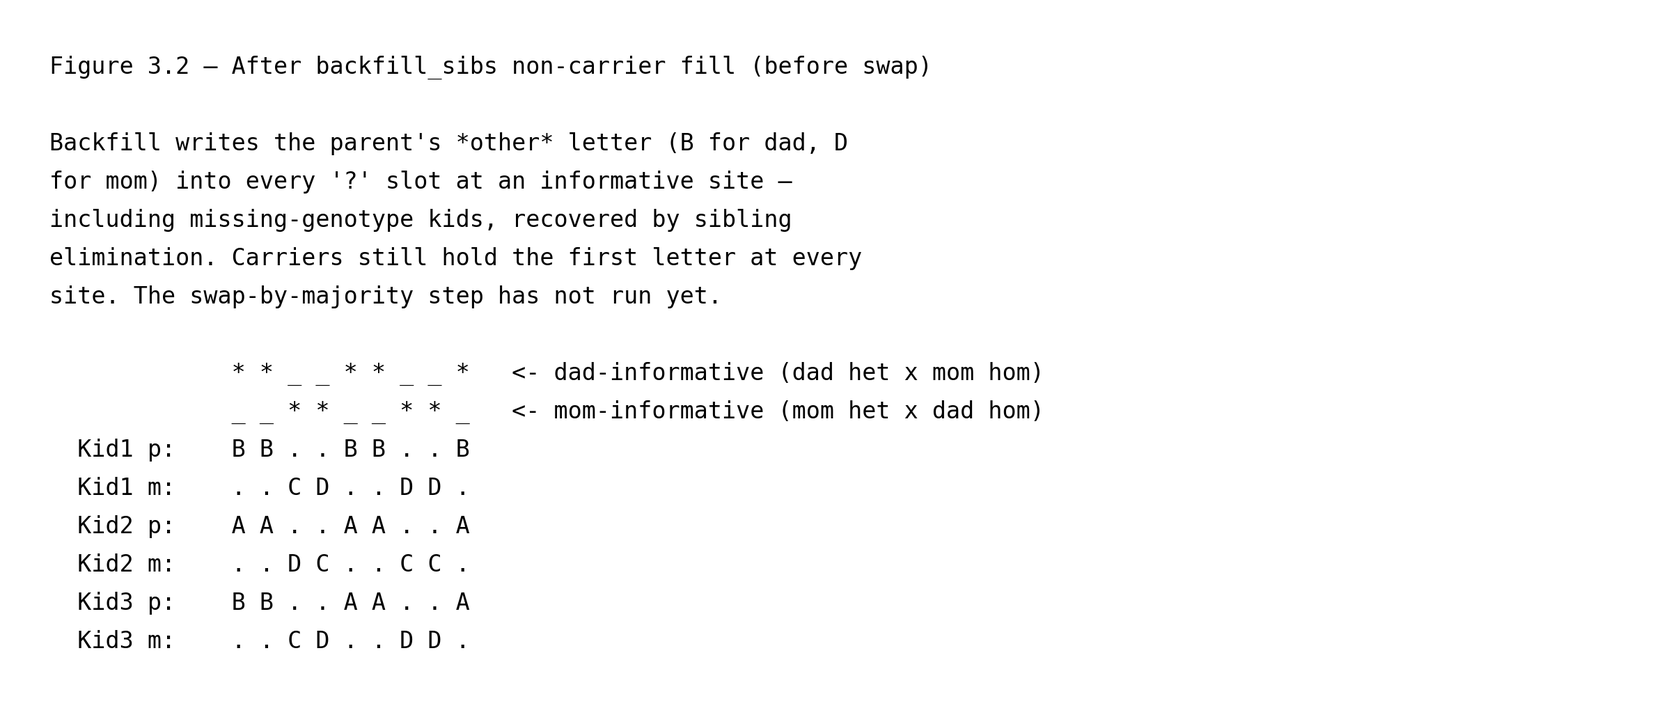
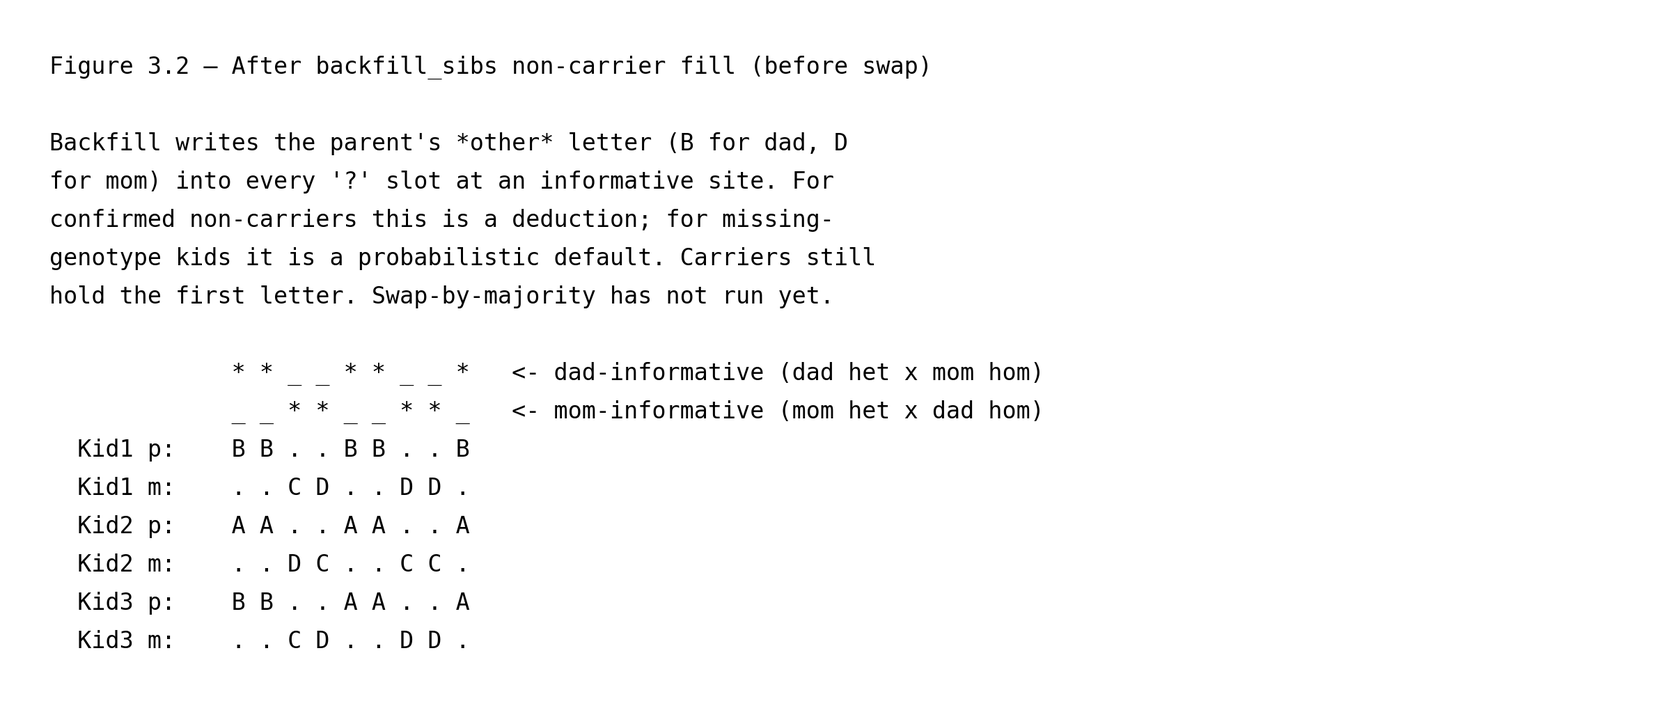
Scrub remaining sibling-elimination phrasing from fig 3.2 caption and Step 3c
The in-image caption for Figure 3.2 and the Step 3c one-child-guard
description still framed backfill as a deduction "by sibling
elimination". Rephrase both consistently with the Step 3/3a
corrections: figure caption now calls the missing-genotype fill a
probabilistic default, and Step 3c explains the one-child guard in
terms of no partition / no majority rather than a missing
"elimination signal".

Changed region(s): [[0.0312, 0.2462, 0.5312, 0.3692], [0.0312, 0.4, 0.4062, 0.4308], [0.4375, 0.4, 0.5, 0.4308]]

diff --git a/wiki/generate_wiki.py b/wiki/generate_wiki.py
@@ -614,10 +614,10 @@ def component_1_nuclear_family(out_dir: Path) -> None:
             pat_stage2, mat_stage2,
             [
                 "Backfill writes the parent's *other* letter (B for dad, D",
-                "for mom) into every '?' slot at an informative site —",
-                "including missing-genotype kids, recovered by sibling",
-                "elimination. Carriers still hold the first letter at every",
-                "site. The swap-by-majority step has not run yet.",
+                "for mom) into every '?' slot at an informative site. For",
+                "confirmed non-carriers this is a deduction; for missing-",
+                "genotype kids it is a probabilistic default. Carriers still",
+                "hold the first letter. Swap-by-majority has not run yet.",
             ],
         ),
         nf_dir / "fig3_2.png",
@@ -1030,8 +1030,9 @@ flips reconcile (§4).
 
 **Step 3c — skip families with one child** (the
 `children.len() > 1` guard at
-[`map_builder.rs:818`]({link(map_rs, 818)})), where there is no
-second sibling to provide the elimination signal.
+[`map_builder.rs:818`]({link(map_rs, 818)})). With a single child
+there is no sibling partition to exploit and the swap-by-majority
+step has no majority to measure.
 
 Because the depth-ordered walk in Step 1 always processes a parent
 before its children, [`get_iht_markers`]({link(map_rs, 274)}) (called

diff --git a/wiki/nuclear_family/nuclear_family.md b/wiki/nuclear_family/nuclear_family.md
@@ -6,10 +6,10 @@ pedigree: a two-generation nuclear family with two founders (dad and
 mom) and three children. It complements the full
 [`methods.md`](../methods.md) write-up by zooming in on the per-site
 mechanics and pinning each figure to the exact Rust code that implements
-it. All line numbers refer to commit `89f270f`. Each function link is
+it. All line numbers refer to commit `3274d53`. Each function link is
 followed by its call site in the driver — `main()` in
-[`map_builder.rs`](https://github.com/Platinum-Pedigree-Consortium/Platinum-Pedigree-Inheritance/blob/89f270f7a1b1a1ac5be881e12b9845dc3182e176/code/rust/src/bin/map_builder.rs#L989) for `gtg-ped-map`, and `main()` in
-[`gtg_concordance.rs`](https://github.com/Platinum-Pedigree-Consortium/Platinum-Pedigree-Inheritance/blob/89f270f7a1b1a1ac5be881e12b9845dc3182e176/code/rust/src/bin/gtg_concordance.rs#L315) for `gtg-concordance` —
+[`map_builder.rs`](https://github.com/Platinum-Pedigree-Consortium/Platinum-Pedigree-Inheritance/blob/3274d533128f1186b04df2785c7449bb87d22fc9/code/rust/src/bin/map_builder.rs#L989) for `gtg-ped-map`, and `main()` in
+[`gtg_concordance.rs`](https://github.com/Platinum-Pedigree-Consortium/Platinum-Pedigree-Inheritance/blob/3274d533128f1186b04df2785c7449bb87d22fc9/code/rust/src/bin/gtg_concordance.rs#L315) for `gtg-concordance` —
 so you can step through the driver source in parallel with this
 walkthrough.
 
@@ -75,25 +75,25 @@ In this simulation:
   sites 3 and 4, so Kid3 carries dad's `α` homolog on sites 0–3 and
   dad's `β` homolog on sites 4–8.
 
-At program startup, [`Iht::new`](https://github.com/Platinum-Pedigree-Consortium/Platinum-Pedigree-Inheritance/blob/89f270f7a1b1a1ac5be881e12b9845dc3182e176/code/rust/src/iht.rs#L172) (driver calls at
-[`map_builder.rs:1059`](https://github.com/Platinum-Pedigree-Consortium/Platinum-Pedigree-Inheritance/blob/89f270f7a1b1a1ac5be881e12b9845dc3182e176/code/rust/src/bin/map_builder.rs#L1059) for the master template
-and [`map_builder.rs:1111`](https://github.com/Platinum-Pedigree-Consortium/Platinum-Pedigree-Inheritance/blob/89f270f7a1b1a1ac5be881e12b9845dc3182e176/code/rust/src/bin/map_builder.rs#L1111) for each VCF site)
+At program startup, [`Iht::new`](https://github.com/Platinum-Pedigree-Consortium/Platinum-Pedigree-Inheritance/blob/3274d533128f1186b04df2785c7449bb87d22fc9/code/rust/src/iht.rs#L172) (driver calls at
+[`map_builder.rs:1059`](https://github.com/Platinum-Pedigree-Consortium/Platinum-Pedigree-Inheritance/blob/3274d533128f1186b04df2785c7449bb87d22fc9/code/rust/src/bin/map_builder.rs#L1059) for the master template
+and [`map_builder.rs:1111`](https://github.com/Platinum-Pedigree-Consortium/Platinum-Pedigree-Inheritance/blob/3274d533128f1186b04df2785c7449bb87d22fc9/code/rust/src/bin/map_builder.rs#L1111) for each VCF site)
 hands each founder a fresh pair of Latin letters — `(A,B)`, `(C,D)`,
 `(E,F)`, … — *without* associating any allele or any physical homolog
 with them. The letters are pure structural placeholders. The two
 `Iht::new` call sites play different roles: the first builds a
 **master template** that is never mutated — only its
-[`legend()`](https://github.com/Platinum-Pedigree-Consortium/Platinum-Pedigree-Inheritance/blob/89f270f7a1b1a1ac5be881e12b9845dc3182e176/code/rust/src/iht.rs#L330) is read, to print the column header
+[`legend()`](https://github.com/Platinum-Pedigree-Consortium/Platinum-Pedigree-Inheritance/blob/3274d533128f1186b04df2785c7449bb87d22fc9/code/rust/src/iht.rs#L330) is read, to print the column header
 (`Dad:A|B Mom:C|D Kid1:?|? …`) at the top of the output files. The
 second allocates a fresh `local_iht` per VCF record that
-[`track_alleles_through_pedigree`](https://github.com/Platinum-Pedigree-Consortium/Platinum-Pedigree-Inheritance/blob/89f270f7a1b1a1ac5be881e12b9845dc3182e176/code/rust/src/bin/map_builder.rs#L295) then *mutates*
+[`track_alleles_through_pedigree`](https://github.com/Platinum-Pedigree-Consortium/Platinum-Pedigree-Inheritance/blob/3274d533128f1186b04df2785c7449bb87d22fc9/code/rust/src/bin/map_builder.rs#L295) then *mutates*
 in place to record which founder letter each child inherited at that
 site. A per-site copy is needed rather than reusing the master because
 (i) each site's IHT vector is itself an output, so it cannot be shared
 across sites, and (ii) the master is hard-coded to
 `ChromType::Autosome`, whereas `local_iht` uses the chromosome's
 actual zygosity (autosome vs. chrX, decided at
-[`map_builder.rs:1086`](https://github.com/Platinum-Pedigree-Consortium/Platinum-Pedigree-Inheritance/blob/89f270f7a1b1a1ac5be881e12b9845dc3182e176/code/rust/src/bin/map_builder.rs#L1086)), which changes how
+[`map_builder.rs:1086`](https://github.com/Platinum-Pedigree-Consortium/Platinum-Pedigree-Inheritance/blob/3274d533128f1186b04df2785c7449bb87d22fc9/code/rust/src/bin/map_builder.rs#L1086)), which changes how
 letters are laid out for males on chrX.
 
 The goal of `gtg-ped-map` is to recover exactly the Greek-labelled
@@ -118,9 +118,9 @@ file that declares who is whose parent). Two observations matter:
   informative-site test in the next section.
 
 Only biallelic SNVs enter the map; indels are filtered at read time via
-[`is_indel`](https://github.com/Platinum-Pedigree-Consortium/Platinum-Pedigree-Inheritance/blob/89f270f7a1b1a1ac5be881e12b9845dc3182e176/code/rust/src/bin/map_builder.rs#L501), invoked from the VCF-reading loop at
-[`map_builder.rs:164`](https://github.com/Platinum-Pedigree-Consortium/Platinum-Pedigree-Inheritance/blob/89f270f7a1b1a1ac5be881e12b9845dc3182e176/code/rust/src/bin/map_builder.rs#L164) inside `parse_vcf` (the
-driver calls `parse_vcf` at [`map_builder.rs:1092`](https://github.com/Platinum-Pedigree-Consortium/Platinum-Pedigree-Inheritance/blob/89f270f7a1b1a1ac5be881e12b9845dc3182e176/code/rust/src/bin/map_builder.rs#L1092)).
+[`is_indel`](https://github.com/Platinum-Pedigree-Consortium/Platinum-Pedigree-Inheritance/blob/3274d533128f1186b04df2785c7449bb87d22fc9/code/rust/src/bin/map_builder.rs#L501), invoked from the VCF-reading loop at
+[`map_builder.rs:164`](https://github.com/Platinum-Pedigree-Consortium/Platinum-Pedigree-Inheritance/blob/3274d533128f1186b04df2785c7449bb87d22fc9/code/rust/src/bin/map_builder.rs#L164) inside `parse_vcf` (the
+driver calls `parse_vcf` at [`map_builder.rs:1092`](https://github.com/Platinum-Pedigree-Consortium/Platinum-Pedigree-Inheritance/blob/3274d533128f1186b04df2785c7449bb87d22fc9/code/rust/src/bin/map_builder.rs#L1092)).
 
 ## 3. Informative-site detection, letter tagging, and sibling backfill
 
@@ -128,19 +128,19 @@ This section describes what `gtg-ped-map` does at *each VCF record
 independently*, and shows the three intermediate states the per-site
 labels pass through (Figures 3.1, 3.2, 3.3 below). The two routines
 involved —
-[`track_alleles_through_pedigree`](https://github.com/Platinum-Pedigree-Consortium/Platinum-Pedigree-Inheritance/blob/89f270f7a1b1a1ac5be881e12b9845dc3182e176/code/rust/src/bin/map_builder.rs#L295) (driver call at
-[`map_builder.rs:1116`](https://github.com/Platinum-Pedigree-Consortium/Platinum-Pedigree-Inheritance/blob/89f270f7a1b1a1ac5be881e12b9845dc3182e176/code/rust/src/bin/map_builder.rs#L1116)) and
-[`backfill_sibs`](https://github.com/Platinum-Pedigree-Consortium/Platinum-Pedigree-Inheritance/blob/89f270f7a1b1a1ac5be881e12b9845dc3182e176/code/rust/src/bin/map_builder.rs#L804) (driver call at
-[`map_builder.rs:1122`](https://github.com/Platinum-Pedigree-Consortium/Platinum-Pedigree-Inheritance/blob/89f270f7a1b1a1ac5be881e12b9845dc3182e176/code/rust/src/bin/map_builder.rs#L1122)) — are called once per
+[`track_alleles_through_pedigree`](https://github.com/Platinum-Pedigree-Consortium/Platinum-Pedigree-Inheritance/blob/3274d533128f1186b04df2785c7449bb87d22fc9/code/rust/src/bin/map_builder.rs#L295) (driver call at
+[`map_builder.rs:1116`](https://github.com/Platinum-Pedigree-Consortium/Platinum-Pedigree-Inheritance/blob/3274d533128f1186b04df2785c7449bb87d22fc9/code/rust/src/bin/map_builder.rs#L1116)) and
+[`backfill_sibs`](https://github.com/Platinum-Pedigree-Consortium/Platinum-Pedigree-Inheritance/blob/3274d533128f1186b04df2785c7449bb87d22fc9/code/rust/src/bin/map_builder.rs#L804) (driver call at
+[`map_builder.rs:1122`](https://github.com/Platinum-Pedigree-Consortium/Platinum-Pedigree-Inheritance/blob/3274d533128f1186b04df2785c7449bb87d22fc9/code/rust/src/bin/map_builder.rs#L1122)) — are called once per
 site, and produce the per-site Latin labels rendered in Figure 3. No
 across-site reasoning has happened yet at this stage.
 
 **Step 1 — informative-site detection.**
-[`track_alleles_through_pedigree`](https://github.com/Platinum-Pedigree-Consortium/Platinum-Pedigree-Inheritance/blob/89f270f7a1b1a1ac5be881e12b9845dc3182e176/code/rust/src/bin/map_builder.rs#L295) walks the
+[`track_alleles_through_pedigree`](https://github.com/Platinum-Pedigree-Consortium/Platinum-Pedigree-Inheritance/blob/3274d533128f1186b04df2785c7449bb87d22fc9/code/rust/src/bin/map_builder.rs#L295) walks the
 pedigree in ancestor-first depth order and, for every
 `(parent, spouse)` pair, calls
-[`unique_allele`](https://github.com/Platinum-Pedigree-Consortium/Platinum-Pedigree-Inheritance/blob/89f270f7a1b1a1ac5be881e12b9845dc3182e176/code/rust/src/bin/map_builder.rs#L243) (from inside the walk at
-[`map_builder.rs:315`](https://github.com/Platinum-Pedigree-Consortium/Platinum-Pedigree-Inheritance/blob/89f270f7a1b1a1ac5be881e12b9845dc3182e176/code/rust/src/bin/map_builder.rs#L315)) to ask whether the parent
+[`unique_allele`](https://github.com/Platinum-Pedigree-Consortium/Platinum-Pedigree-Inheritance/blob/3274d533128f1186b04df2785c7449bb87d22fc9/code/rust/src/bin/map_builder.rs#L243) (from inside the walk at
+[`map_builder.rs:315`](https://github.com/Platinum-Pedigree-Consortium/Platinum-Pedigree-Inheritance/blob/3274d533128f1186b04df2785c7449bb87d22fc9/code/rust/src/bin/map_builder.rs#L315)) to ask whether the parent
 carries an allele that the spouse does not. Two cases can arise:
 
 - **Dad-informative** (dad het × mom hom): dad's unique allele tags
@@ -163,12 +163,12 @@ homolog (the one carrying the allele common to both parents). So the
 children are partitioned into two groups by the carrier test. The
 two letters of the parent's pair are handed out one per group, but
 `track_alleles_through_pedigree` only writes a letter to the carrier
-group: at [`map_builder.rs:333`](https://github.com/Platinum-Pedigree-Consortium/Platinum-Pedigree-Inheritance/blob/89f270f7a1b1a1ac5be881e12b9845dc3182e176/code/rust/src/bin/map_builder.rs#L333) it calls
-[`find_valid_char`](https://github.com/Platinum-Pedigree-Consortium/Platinum-Pedigree-Inheritance/blob/89f270f7a1b1a1ac5be881e12b9845dc3182e176/code/rust/src/bin/map_builder.rs#L285), which returns the *first
+group: at [`map_builder.rs:333`](https://github.com/Platinum-Pedigree-Consortium/Platinum-Pedigree-Inheritance/blob/3274d533128f1186b04df2785c7449bb87d22fc9/code/rust/src/bin/map_builder.rs#L333) it calls
+[`find_valid_char`](https://github.com/Platinum-Pedigree-Consortium/Platinum-Pedigree-Inheritance/blob/3274d533128f1186b04df2785c7449bb87d22fc9/code/rust/src/bin/map_builder.rs#L285), which returns the *first
 valid* (non-`?`, non-`.`) entry in the parent's own slot pair, and
 writes that letter to every carrier; the non-carriers are left as
 `?` and resolved in Step 3. For the nuclear family on this page both
-parents are founders, and [`Iht::new`](https://github.com/Platinum-Pedigree-Consortium/Platinum-Pedigree-Inheritance/blob/89f270f7a1b1a1ac5be881e12b9845dc3182e176/code/rust/src/iht.rs#L172) gave dad
+parents are founders, and [`Iht::new`](https://github.com/Platinum-Pedigree-Consortium/Platinum-Pedigree-Inheritance/blob/3274d533128f1186b04df2785c7449bb87d22fc9/code/rust/src/iht.rs#L172) gave dad
 the pair `(A, B)` and mom the pair `(C, D)` — both slots pre-filled —
 so `find_valid_char` returns `A` at every dad-informative site and
 `C` at every mom-informative site. (In deeper pedigrees a non-founder
@@ -200,18 +200,18 @@ code (`perform_flips_in_place`, see §4, and ultimately
 reconciling.
 
 **Step 3 — sibling backfill.**
-[`backfill_sibs`](https://github.com/Platinum-Pedigree-Consortium/Platinum-Pedigree-Inheritance/blob/89f270f7a1b1a1ac5be881e12b9845dc3182e176/code/rust/src/bin/map_builder.rs#L804) is then called for the same
+[`backfill_sibs`](https://github.com/Platinum-Pedigree-Consortium/Platinum-Pedigree-Inheritance/blob/3274d533128f1186b04df2785c7449bb87d22fc9/code/rust/src/bin/map_builder.rs#L804) is then called for the same
 site. Step 2 already split siblings into two groups (carriers vs
 non-carriers) by which parental homolog they inherited; `backfill_sibs`
 names the non-carrier group with the parent's other letter, on the
 assumption that across a handful of siblings both founder homologs are
 likely to have been transmitted. It runs in two sub-stages — a
 non-carrier fill (3a) followed by a swap-by-majority normalisation (3b)
-— plus a [multi-child guard](https://github.com/Platinum-Pedigree-Consortium/Platinum-Pedigree-Inheritance/blob/89f270f7a1b1a1ac5be881e12b9845dc3182e176/code/rust/src/bin/map_builder.rs#L818) that disables it for
+— plus a [multi-child guard](https://github.com/Platinum-Pedigree-Consortium/Platinum-Pedigree-Inheritance/blob/3274d533128f1186b04df2785c7449bb87d22fc9/code/rust/src/bin/map_builder.rs#L818) that disables it for
 one-child families.
 
 **Step 3a — backfill non-carriers**
-([fill loop at `map_builder.rs:848`](https://github.com/Platinum-Pedigree-Consortium/Platinum-Pedigree-Inheritance/blob/89f270f7a1b1a1ac5be881e12b9845dc3182e176/code/rust/src/bin/map_builder.rs#L848)). For every
+([fill loop at `map_builder.rs:848`](https://github.com/Platinum-Pedigree-Consortium/Platinum-Pedigree-Inheritance/blob/3274d533128f1186b04df2785c7449bb87d22fc9/code/rust/src/bin/map_builder.rs#L848)). For every
 sibling left as `?` after Step 2, write the parent's *other* letter
 (`B` for dad, `D` for mom). For a confirmed non-carrier this is a
 deduction — the kid's genotype lacks the parent's unique allele, so
@@ -239,7 +239,7 @@ state the rule "carriers always hold the first letter" still holds
 strictly at every site.
 
 **Step 3b — swap by majority**
-([`map_builder.rs:881`](https://github.com/Platinum-Pedigree-Consortium/Platinum-Pedigree-Inheritance/blob/89f270f7a1b1a1ac5be881e12b9845dc3182e176/code/rust/src/bin/map_builder.rs#L881)). Count how many sibling
+([`map_builder.rs:881`](https://github.com/Platinum-Pedigree-Consortium/Platinum-Pedigree-Inheritance/blob/3274d533128f1186b04df2785c7449bb87d22fc9/code/rust/src/bin/map_builder.rs#L881)). Count how many sibling
 slots now carry each of the two letters. If the letter assigned to
 carriers (`A` or `C`) ends up in the *minority*, swap the two
 letters across all siblings so the majority class always carries
@@ -265,12 +265,13 @@ flips reconcile (§4).
 
 **Step 3c — skip families with one child** (the
 `children.len() > 1` guard at
-[`map_builder.rs:818`](https://github.com/Platinum-Pedigree-Consortium/Platinum-Pedigree-Inheritance/blob/89f270f7a1b1a1ac5be881e12b9845dc3182e176/code/rust/src/bin/map_builder.rs#L818)), where there is no
-second sibling to provide the elimination signal.
+[`map_builder.rs:818`](https://github.com/Platinum-Pedigree-Consortium/Platinum-Pedigree-Inheritance/blob/3274d533128f1186b04df2785c7449bb87d22fc9/code/rust/src/bin/map_builder.rs#L818)). With a single child
+there is no sibling partition to exploit and the swap-by-majority
+step has no majority to measure.
 
 Because the depth-ordered walk in Step 1 always processes a parent
-before its children, [`get_iht_markers`](https://github.com/Platinum-Pedigree-Consortium/Platinum-Pedigree-Inheritance/blob/89f270f7a1b1a1ac5be881e12b9845dc3182e176/code/rust/src/bin/map_builder.rs#L274) (called
-from inside the walk at [`map_builder.rs:328`](https://github.com/Platinum-Pedigree-Consortium/Platinum-Pedigree-Inheritance/blob/89f270f7a1b1a1ac5be881e12b9845dc3182e176/code/rust/src/bin/map_builder.rs#L328))
+before its children, [`get_iht_markers`](https://github.com/Platinum-Pedigree-Consortium/Platinum-Pedigree-Inheritance/blob/3274d533128f1186b04df2785c7449bb87d22fc9/code/rust/src/bin/map_builder.rs#L274) (called
+from inside the walk at [`map_builder.rs:328`](https://github.com/Platinum-Pedigree-Consortium/Platinum-Pedigree-Inheritance/blob/3274d533128f1186b04df2785c7449bb87d22fc9/code/rust/src/bin/map_builder.rs#L328))
 reads the parent's already-assigned letters when propagating to the
 next generation, which is what makes the method look "recursive"
 across generations while being expressed as a single loop.
@@ -299,22 +300,22 @@ children but, as flagged in §3, the letter convention can flip from
 site to site. Several Rust routines reconcile and clean the trace up
 before it is written to disk:
 
-1. [`collapse_identical_iht`](https://github.com/Platinum-Pedigree-Consortium/Platinum-Pedigree-Inheritance/blob/89f270f7a1b1a1ac5be881e12b9845dc3182e176/code/rust/src/bin/map_builder.rs#L385) (driver call at
-   [`map_builder.rs:1191`](https://github.com/Platinum-Pedigree-Consortium/Platinum-Pedigree-Inheritance/blob/89f270f7a1b1a1ac5be881e12b9845dc3182e176/code/rust/src/bin/map_builder.rs#L1191)) merges adjacent
+1. [`collapse_identical_iht`](https://github.com/Platinum-Pedigree-Consortium/Platinum-Pedigree-Inheritance/blob/3274d533128f1186b04df2785c7449bb87d22fc9/code/rust/src/bin/map_builder.rs#L385) (driver call at
+   [`map_builder.rs:1191`](https://github.com/Platinum-Pedigree-Consortium/Platinum-Pedigree-Inheritance/blob/3274d533128f1186b04df2785c7449bb87d22fc9/code/rust/src/bin/map_builder.rs#L1191)) merges adjacent
    sites with compatible letter assignments into blocks, while
-   [`fill_missing_values`](https://github.com/Platinum-Pedigree-Consortium/Platinum-Pedigree-Inheritance/blob/89f270f7a1b1a1ac5be881e12b9845dc3182e176/code/rust/src/bin/map_builder.rs#L617) (driver call at
-   [`map_builder.rs:1200`](https://github.com/Platinum-Pedigree-Consortium/Platinum-Pedigree-Inheritance/blob/89f270f7a1b1a1ac5be881e12b9845dc3182e176/code/rust/src/bin/map_builder.rs#L1200)) and
-   [`fill_missing_values_by_neighbor`](https://github.com/Platinum-Pedigree-Consortium/Platinum-Pedigree-Inheritance/blob/89f270f7a1b1a1ac5be881e12b9845dc3182e176/code/rust/src/bin/map_builder.rs#L540) (driver
-   call at [`map_builder.rs:1201`](https://github.com/Platinum-Pedigree-Consortium/Platinum-Pedigree-Inheritance/blob/89f270f7a1b1a1ac5be881e12b9845dc3182e176/code/rust/src/bin/map_builder.rs#L1201)) fill the
+   [`fill_missing_values`](https://github.com/Platinum-Pedigree-Consortium/Platinum-Pedigree-Inheritance/blob/3274d533128f1186b04df2785c7449bb87d22fc9/code/rust/src/bin/map_builder.rs#L617) (driver call at
+   [`map_builder.rs:1200`](https://github.com/Platinum-Pedigree-Consortium/Platinum-Pedigree-Inheritance/blob/3274d533128f1186b04df2785c7449bb87d22fc9/code/rust/src/bin/map_builder.rs#L1200)) and
+   [`fill_missing_values_by_neighbor`](https://github.com/Platinum-Pedigree-Consortium/Platinum-Pedigree-Inheritance/blob/3274d533128f1186b04df2785c7449bb87d22fc9/code/rust/src/bin/map_builder.rs#L540) (driver
+   call at [`map_builder.rs:1201`](https://github.com/Platinum-Pedigree-Consortium/Platinum-Pedigree-Inheritance/blob/3274d533128f1186b04df2785c7449bb87d22fc9/code/rust/src/bin/map_builder.rs#L1201)) fill the
    `.` gaps visible in Figure 3 from flanking blocks.
-2. [`count_matching_neighbors`](https://github.com/Platinum-Pedigree-Consortium/Platinum-Pedigree-Inheritance/blob/89f270f7a1b1a1ac5be881e12b9845dc3182e176/code/rust/src/bin/map_builder.rs#L935) (driver call at
-   [`map_builder.rs:1172`](https://github.com/Platinum-Pedigree-Consortium/Platinum-Pedigree-Inheritance/blob/89f270f7a1b1a1ac5be881e12b9845dc3182e176/code/rust/src/bin/map_builder.rs#L1172)) and
-   [`mask_child_alleles`](https://github.com/Platinum-Pedigree-Consortium/Platinum-Pedigree-Inheritance/blob/89f270f7a1b1a1ac5be881e12b9845dc3182e176/code/rust/src/bin/map_builder.rs#L970) (driver call at
-   [`map_builder.rs:1187`](https://github.com/Platinum-Pedigree-Consortium/Platinum-Pedigree-Inheritance/blob/89f270f7a1b1a1ac5be881e12b9845dc3182e176/code/rust/src/bin/map_builder.rs#L1187)) identify isolated
+2. [`count_matching_neighbors`](https://github.com/Platinum-Pedigree-Consortium/Platinum-Pedigree-Inheritance/blob/3274d533128f1186b04df2785c7449bb87d22fc9/code/rust/src/bin/map_builder.rs#L935) (driver call at
+   [`map_builder.rs:1172`](https://github.com/Platinum-Pedigree-Consortium/Platinum-Pedigree-Inheritance/blob/3274d533128f1186b04df2785c7449bb87d22fc9/code/rust/src/bin/map_builder.rs#L1172)) and
+   [`mask_child_alleles`](https://github.com/Platinum-Pedigree-Consortium/Platinum-Pedigree-Inheritance/blob/3274d533128f1186b04df2785c7449bb87d22fc9/code/rust/src/bin/map_builder.rs#L970) (driver call at
+   [`map_builder.rs:1187`](https://github.com/Platinum-Pedigree-Consortium/Platinum-Pedigree-Inheritance/blob/3274d533128f1186b04df2785c7449bb87d22fc9/code/rust/src/bin/map_builder.rs#L1187)) identify isolated
    runs shorter than `--run` (default 10 markers) and mask them back
    to `?` as likely sequencing noise, so that collapse does not
    invent spurious recombinations.
-3. [`perform_flips_in_place`](https://github.com/Platinum-Pedigree-Consortium/Platinum-Pedigree-Inheritance/blob/89f270f7a1b1a1ac5be881e12b9845dc3182e176/code/rust/src/bin/map_builder.rs#L702) enforces a
+3. [`perform_flips_in_place`](https://github.com/Platinum-Pedigree-Consortium/Platinum-Pedigree-Inheritance/blob/3274d533128f1186b04df2785c7449bb87d22fc9/code/rust/src/bin/map_builder.rs#L702) enforces a
    consistent founder-letter orientation across blocks, since the
    two letters in a founder's pair are interchangeable within any
    single block. This is the routine that finally pins each block's
@@ -322,9 +323,9 @@ before it is written to disk:
    on every kid that did *not* recombine. The driver calls it three
    times — before and after block collapse, and again after gap
    fill — at
-   [`map_builder.rs:1135`](https://github.com/Platinum-Pedigree-Consortium/Platinum-Pedigree-Inheritance/blob/89f270f7a1b1a1ac5be881e12b9845dc3182e176/code/rust/src/bin/map_builder.rs#L1135),
-   [`map_builder.rs:1193`](https://github.com/Platinum-Pedigree-Consortium/Platinum-Pedigree-Inheritance/blob/89f270f7a1b1a1ac5be881e12b9845dc3182e176/code/rust/src/bin/map_builder.rs#L1193), and
-   [`map_builder.rs:1203`](https://github.com/Platinum-Pedigree-Consortium/Platinum-Pedigree-Inheritance/blob/89f270f7a1b1a1ac5be881e12b9845dc3182e176/code/rust/src/bin/map_builder.rs#L1203).
+   [`map_builder.rs:1135`](https://github.com/Platinum-Pedigree-Consortium/Platinum-Pedigree-Inheritance/blob/3274d533128f1186b04df2785c7449bb87d22fc9/code/rust/src/bin/map_builder.rs#L1135),
+   [`map_builder.rs:1193`](https://github.com/Platinum-Pedigree-Consortium/Platinum-Pedigree-Inheritance/blob/3274d533128f1186b04df2785c7449bb87d22fc9/code/rust/src/bin/map_builder.rs#L1193), and
+   [`map_builder.rs:1203`](https://github.com/Platinum-Pedigree-Consortium/Platinum-Pedigree-Inheritance/blob/3274d533128f1186b04df2785c7449bb87d22fc9/code/rust/src/bin/map_builder.rs#L1203).
 
 After these steps, each kid's paternal and maternal slots are fully
 resolved — shown on separate rows per kid in Figure 4. Within each
@@ -332,8 +333,8 @@ block all three kids' labels agree on a single partition; across
 adjacent blocks, only the kid(s) that genuinely recombined change
 letter. Kid3's highlighted `A`→`B` transition on the paternal row is
 emitted to `{prefix}.recombinants.txt` by
-[`summarize_child_changes`](https://github.com/Platinum-Pedigree-Consortium/Platinum-Pedigree-Inheritance/blob/89f270f7a1b1a1ac5be881e12b9845dc3182e176/code/rust/src/bin/map_builder.rs#L673) (driver call at
-[`map_builder.rs:1228`](https://github.com/Platinum-Pedigree-Consortium/Platinum-Pedigree-Inheritance/blob/89f270f7a1b1a1ac5be881e12b9845dc3182e176/code/rust/src/bin/map_builder.rs#L1228)).
+[`summarize_child_changes`](https://github.com/Platinum-Pedigree-Consortium/Platinum-Pedigree-Inheritance/blob/3274d533128f1186b04df2785c7449bb87d22fc9/code/rust/src/bin/map_builder.rs#L673) (driver call at
+[`map_builder.rs:1228`](https://github.com/Platinum-Pedigree-Consortium/Platinum-Pedigree-Inheritance/blob/3274d533128f1186b04df2785c7449bb87d22fc9/code/rust/src/bin/map_builder.rs#L1228)).
 
 ## 5. Truth versus deduced
 
@@ -362,10 +363,10 @@ Reconstructing which allele each letter represents at every VCF site
 is the job of `gtg-concordance`, which will have its own wiki page
 once migrated. For every block, `gtg-concordance` enumerates the
 `2^F` founder-phase orientations produced by
-[`Iht::founder_phase_orientations`](https://github.com/Platinum-Pedigree-Consortium/Platinum-Pedigree-Inheritance/blob/89f270f7a1b1a1ac5be881e12b9845dc3182e176/code/rust/src/iht.rs#L492) (driver call
-at [`gtg_concordance.rs:256`](https://github.com/Platinum-Pedigree-Consortium/Platinum-Pedigree-Inheritance/blob/89f270f7a1b1a1ac5be881e12b9845dc3182e176/code/rust/src/bin/gtg_concordance.rs#L256)), maps letters
-to VCF alleles via [`assign_genotypes`](https://github.com/Platinum-Pedigree-Consortium/Platinum-Pedigree-Inheritance/blob/89f270f7a1b1a1ac5be881e12b9845dc3182e176/code/rust/src/iht.rs#L442) (driver
-call at [`gtg_concordance.rs:267`](https://github.com/Platinum-Pedigree-Consortium/Platinum-Pedigree-Inheritance/blob/89f270f7a1b1a1ac5be881e12b9845dc3182e176/code/rust/src/bin/gtg_concordance.rs#L267)), and
+[`Iht::founder_phase_orientations`](https://github.com/Platinum-Pedigree-Consortium/Platinum-Pedigree-Inheritance/blob/3274d533128f1186b04df2785c7449bb87d22fc9/code/rust/src/iht.rs#L492) (driver call
+at [`gtg_concordance.rs:256`](https://github.com/Platinum-Pedigree-Consortium/Platinum-Pedigree-Inheritance/blob/3274d533128f1186b04df2785c7449bb87d22fc9/code/rust/src/bin/gtg_concordance.rs#L256)), maps letters
+to VCF alleles via [`assign_genotypes`](https://github.com/Platinum-Pedigree-Consortium/Platinum-Pedigree-Inheritance/blob/3274d533128f1186b04df2785c7449bb87d22fc9/code/rust/src/iht.rs#L442) (driver
+call at [`gtg_concordance.rs:267`](https://github.com/Platinum-Pedigree-Consortium/Platinum-Pedigree-Inheritance/blob/3274d533128f1186b04df2785c7449bb87d22fc9/code/rust/src/bin/gtg_concordance.rs#L267)), and
 picks the orientation that minimises mismatches against the observed
 genotypes. The split of responsibilities is deliberate and strict:
 `gtg-ped-map` writes only letters and only at informative sites, while
